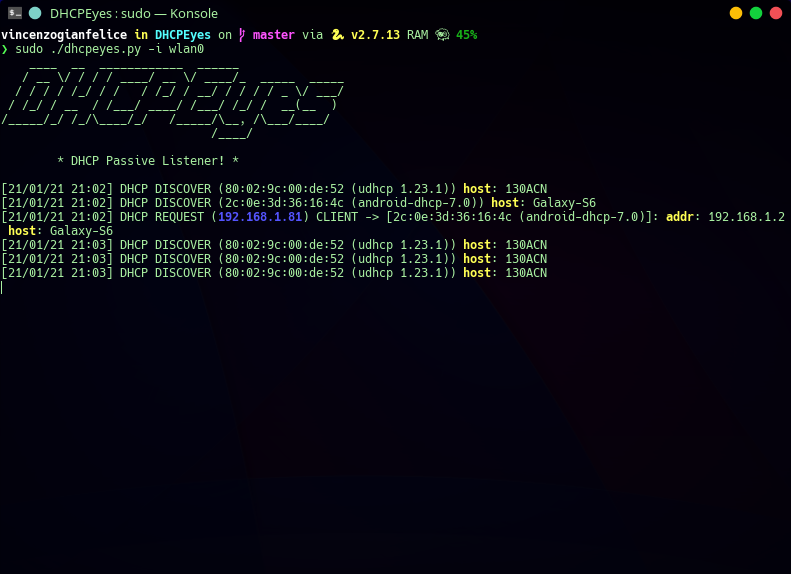
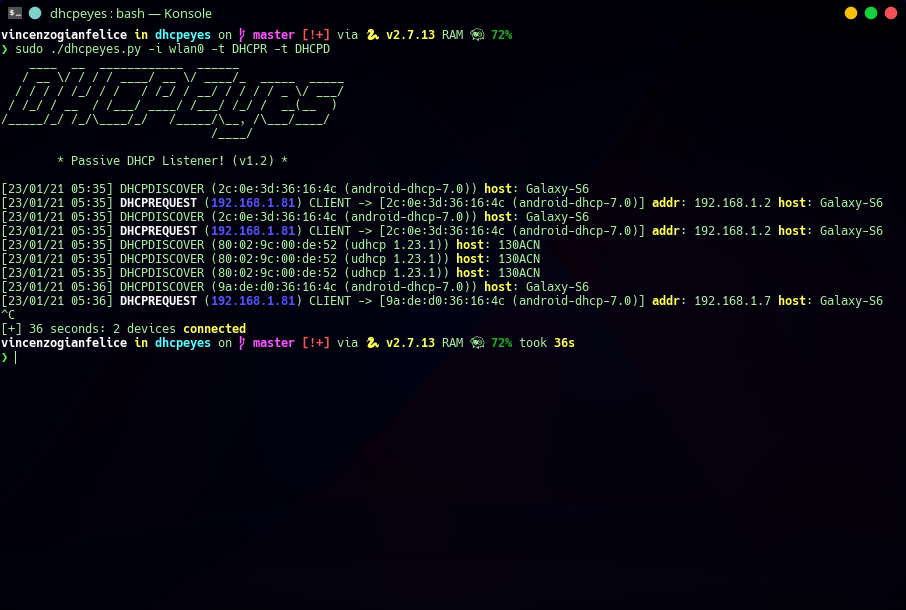
Updating to v1.2 and adding two types DHCP filtering: INFORM and NAK!

Changed region(s): [[0.0, 0.0, 1.0, 0.5923], [0.9102, 0.0, 1.0, 0.0296]]

diff --git a/dhcpeyes.py b/dhcpeyes.py
@@ -1,160 +1,194 @@
 #!/usr/bin/env python2.7
-#  Coded by vincenzogianfelice <developer.vincenzog@gmail.com> with <3
-VERSION='v1.1'
-
+## Coded by vincenzogianfelice <developer.vincenzog@gmail.com> with <3
 import base64
 import sys
 import time
 import os
 from termcolor import colored
-from scapy.all import Ether,DHCP,sniff
+from scapy.all import Ether,DHCP,IP,sniff
 if (os.name == 'nt'):
-    import colorama
-    colorama.init()
+   import colorama
+   colorama.init()
+
+## Variabili costanti
+VERSION='v1.2'
 
 ## DHCP Message Type - RFC2132/Page-4 (https://tools.ietf.org/html/rfc2132#page-4) ##
-## Per il momento, verranno utilizzati solo DHCPREQUEST e DHCPDISCOVER.
-## Presto verra' aggiunta la possibilita' di intercettare il DHCPOFFER
+## Per il momento, non verranno utilizzate tutti i "tipi", dato che il client, una volta stabilito il server di destinazione DHCP,
+## invia direttamente i pacchetti a quest'ultimo (e non in broadcast), rendendo inefficace l intercettazione
+## in modo passivo.
+## Presto verra' aggiunta la possibilita' di intercettare le richieste/risposte tra il client/server (MITM)
 ## Stay Tuned! ;)
 DHCPDISCOVER=1  #Used
 DHCPOFFER=2     #No
 DHCPREQUEST=3   #Used
 DHCPDECLINE=4   #No
 DHCPACK=5       #No
-DHCPNAK=6       #No
+DHCPNAK=6       #Used
 DHCPRELEASE=7   #No
-DHCPINFORM=8    #No
+DHCPINFORM=8    #Used
 
 ## DHCPOptions of Scapy
 ## (https://github.com/secdev/scapy/blob/master/scapy/layers/dhcp.py)
 ## `at line 112`. Actual version of scapy is 2.4.4.
 MESSAGE_DHCP='message-type'
+ERROR_MESSAGE='error_message'
 REQUEST_ADDRESS='requested_addr'
 ADDRESS_SERVER_DHCP='server_id'
 VENDOR='vendor_class_id'
 HOSTNAME='hostname'
 
-def logo():
[1 lines of base64/hex data omitted]
+## Variabili globali per lo script
+REQUESTED=list()
 
-    print(base64.b64decode(LOGO).decode('ascii'))
-    print('\t* Passive DHCP Listener! ('+VERSION+') *')
-    print('')
+def logo():
[1 lines of base64/hex data omitted]
+
+   print(base64.b64decode(LOGO).decode('ascii'))
+   print('\t* Passive DHCP Listener! ('+VERSION+') *')
+   print('')
 
 def help():
-    print('Usage: {} -i <interface>'.format(sys.argv[0]))
-    print('')
-    print('Optional:')
-    print('     -o <arg>  File Output Save')
-    print('     -t <arg>  REQUEST types: DHCPR (request),  DHCPD (discover)')
+   print('Usage: {} -i <interface>'.format(sys.argv[0]))
+   print('')
+   print('     -i        Interface for listening')
+   print('Optional:')
+   print('     -o <arg>  File Output Save')
+   print('     -t <arg>  Options types: DHCPD  (discover)')
+   print('                              DHCPR  (request)')
+   print('                              DHCPN  (nak)')
+   print('                              DHCPI  (inform)')
+   print('               Default print all options')
 
-    if (os.name == 'nt'):
-        print('')
-        print('')
-        print('(PS). In Windows, digit "netsh interface show interface" for show the names of interfaces')
+   if (os.name == 'nt'):
+      print('')
+      print('')
+      print('(PS). In Windows, digit "netsh interface show interface" for show the names of interfaces')
 
 def dhcp_options_search(pkts):
-    data=[pkts.getlayer(DHCP).options[0][1]]
-    for ex in pkts.getlayer(DHCP).options:
-        if REQUEST_ADDRESS in ex:
-            data.append((REQUEST_ADDRESS, ex[1]))
-        elif ADDRESS_SERVER_DHCP in ex:
-            data.append((ADDRESS_SERVER_DHCP, ex[1]))
-        elif VENDOR in ex:
-            data.append((VENDOR, ex[1]))
-        elif HOSTNAME in ex:
-            data.append((HOSTNAME, ex[1]))
-
-    return data
+   data=[pkts.getlayer(DHCP).options[0][1]]
+   for ex in pkts.getlayer(DHCP).options:
+      if REQUEST_ADDRESS in ex:
+         data.append((REQUEST_ADDRESS, ex[1]))
+      elif ADDRESS_SERVER_DHCP in ex:
+         data.append((ADDRESS_SERVER_DHCP, ex[1]))
+      elif VENDOR in ex:
+         data.append((VENDOR, ex[1]))
+      elif HOSTNAME in ex:
+         data.append((HOSTNAME, ex[1]))
+      elif ERROR_MESSAGE in ex:
+         data.append((ERROR_MESSAGE, ex[1]))
+   return data
 
 def parser_packet(pkts):
-    mac_addr=pkts.getlayer(Ether).src
-    address='???'
-    vendor='???'
-    address_server_dhcp='???'
-    hostname='???'
+   if (not pkts):
+      return
 
-    data=dhcp_options_search(pkts)
+   mac_addr=pkts.getlayer(Ether).src
+   ip_src=pkts.getlayer(IP).src
+   ip_dst=pkts.getlayer(IP).dst
+   address='???'
+   vendor='???'
+   address_server_dhcp='???'
+   hostname='???'
+   error_msg=None
 
-    type_option=data[0]
-    del data[0]
+   data=dhcp_options_search(pkts)
+   if (not data):
+      return
 
-    ## Check in base al valore dell'opzione '-t' e dal tipo di pacchetto
-    ## in entrata
-    if type_option == DHCPDISCOVER and (type_dhcp == 'DHCPD' or not type_dhcp):
-        option_dhcp='DHCPDISCOVER'
-    elif type_option == DHCPREQUEST and (type_dhcp == 'DHCPR' or not type_dhcp):
-        option_dhcp='DHCPREQUEST'
-    else:
-        return
+   type_option=data[0]
+   del data[0]
 
-    time_capture=time.strftime("%d/%m/%y %H:%M")
-    for ex in data:
-        if REQUEST_ADDRESS in ex:
-            address=ex[1]
-        elif ADDRESS_SERVER_DHCP in ex:
-            address_server_dhcp=ex[1]
-        elif VENDOR in ex:
-            vendor=ex[1].decode('utf8')
-        elif HOSTNAME in ex:
-            hostname=ex[1].decode('utf8')
+   time_capture=tuple(time.localtime())
+   ## Check in base al valore dell'opzione '-t' e dal tipo di pacchetto
+   # ## in entrata
+   if type_option == DHCPDISCOVER and ('DHCPD' in type_dhcp or not type_dhcp):
+      option_dhcp='DHCPDISCOVER'
+      format_syntax='[%s] %s (%s (%s)) %s: %s'
+      value_syntax='(time.strftime("%d/%m/%y %H:%M",time_capture), option_dhcp, mac_addr, vendor, colored(\'host\', \'yellow\', attrs=[\'bold\']), hostname)'
+   elif type_option == DHCPREQUEST and ('DHCPR' in type_dhcp or not type_dhcp):
+      REQUESTED.append(mac_addr)
 
-    if (file_out):
-        with open(file_out,'a+') as fd:
-            fd.write('{}: {} server_dhcp={} mac={} vendor={} address={} hostname={}'.format(time_capture, option_dhcp, address_server_dhcp, mac_addr, vendor, address, hostname))
+      option_dhcp=colored('DHCPREQUEST', 'white', attrs=['bold'])
+      format_syntax='[%s] %s (%s) CLIENT -> [%s (%s)] %s: %s %s: %s'
+      value_syntax='(time.strftime("%d/%m/%y %H:%M",time_capture), option_dhcp, colored(address_server_dhcp, \'blue\', attrs=[\'bold\']), mac_addr, vendor, colored(\'addr\', \'yellow\', attrs=[\'bold\']), address, colored(\'host\', \'yellow\', attrs=[\'bold\']), hostname)'
+   elif type_option == DHCPNAK and ('DHCPN' in type_dhcp or not type_dhcp):
+      option_dhcp='DHCPNAK'
+      format_syntax='[%s] %s (%s from %s) (%s) via %s'
+      value_syntax='(time.strftime("%d/%m/%y %H:%M",time_capture), colored(option_dhcp, \'red\', attrs=[\'bold\']), mac_addr, colored(ip_src, \'blue\', attrs=[\'bold\']), error_msg, ip_dst)'
+   elif type_option == DHCPINFORM and ('DHCPI' in type_dhcp or not type_dhcp):
+      option_dhcp='DHCPINFORM'
+      format_syntax='[%s] %s [%s (%s)] %s: %s %s: %s'
+      value_syntax='(time.strftime("%d/%m/%y %H:%M",time_capture), option_dhcp, mac_addr, vendor, colored(\'addr\', \'yellow\', attrs=[\'bold\']), ip_src, colored(\'host\', \'yellow\', attrs=[\'bold\']), hostname)'
+   else:
+      return
+
+   for ex in data:
+      if REQUEST_ADDRESS in ex:
+         address=ex[1]
+      elif ADDRESS_SERVER_DHCP in ex:
+         address_server_dhcp=ex[1]
+      elif VENDOR in ex:
+         vendor=ex[1].decode('utf8')
+      elif HOSTNAME in ex:
+         hostname=ex[1].decode('utf8')
+      elif ERROR_MESSAGE in ex:
+         error_msg=ex[1].decode('utf8')
+
+      if (file_out):
+         with open(file_out,'a+') as fd:
+            fd.write('{}: {} server_dhcp={} mac={} vendor={} address={} hostname={} errorr_msg={}'.format(time.strftime("%d-%m-%y-%H-%M",time_capture), option_dhcp, address_server_dhcp, mac_addr, vendor, address, hostname, error_msg))
             fd.write('\n')
 
-    if (type_option == DHCPDISCOVER):
-        output_format='[{}] {} ({} ({})) {}: {}'.format(time_capture,
-                                                        option_dhcp,
-                                                        mac_addr,
-                                                        vendor,
-                                                        colored('host', 'yellow', attrs=['bold']),
-                                                        hostname)
-    elif (type_option == DHCPREQUEST):
-        output_format='[{}] {} ({}) CLIENT -> [{} ({})] {}: {} {}: {}'.format(time_capture,
-                                                                              option_dhcp,
-                                                                              colored(address_server_dhcp, 'blue', attrs=['bold']),
-                                                                              mac_addr,
-                                                                              vendor,
-                                                                              colored('addr', 'yellow', attrs=['bold']),
-                                                                              address,
-                                                                              colored('host', 'yellow', attrs=['bold']),
-                                                                              hostname)
-
-    print(output_format)
+   print((format_syntax) % eval(value_syntax))
 
 if __name__ == '__main__':
-    interface=None
-    type_dhcp=None
-    file_out=None
+   interface=None
+   type_dhcp=list()
+   file_out=None
 
-    logo()
+   logo()
 
-    op=sys.argv[1::2]
-    val=sys.argv[2::2]
-    if (len(sys.argv) < 2 or len(op) != len(val)):
-        help()
-        sys.exit(1)
+   op=sys.argv[1::2]
+   val=sys.argv[2::2]
+   if (len(sys.argv) < 2 or len(op) != len(val)):
+      help()
+      sys.exit(1)
 
-    for o in op:
-        index_op=op.index(o)
-        if ( o == '-o' ):
-            file_out=val[index_op]
-        elif ( o == '-t' ):
-            type_dhcp=val[index_op]
-            if type_dhcp != 'DHCPR' and type_dhcp != 'DHCPD':
-                help()
-                sys.exit(1)
-        elif ( o == '-i'):
-            interface=val[index_op]
-
-    ## Check root permissions
-    if (os.name == 'posix'):
-        if (os.getuid() != 0):
-            print('Please run as root')
+   ## Semplice parsing delle opzioni da input
+   i=0
+   for o in op:
+      if ( o == '-o' ):
+         file_out=val[index_op]
+      elif ( o == '-t' ):
+         if val[i] != 'DHCPD' and val[i] != 'DHCPR' and val[i] != 'DHCPN' and val[i] != 'DHCPI':
+            help()
             sys.exit(1)
 
-    print('* Eyes on "{}" interface...'.format(interface))
-    print('')
-    sniff(iface=interface, prn=parser_packet, store=False, filter=('udp port 67 and port 68'))
+         type_dhcp.append(val[i])
+      elif ( o == '-i'):
+         interface=val[i]
+      i+=1
+
+   ## Check root permissions
+   if (os.name == 'posix'):
+      if (os.getuid() != 0):
+         print('Please run as root')
+         sys.exit(1)
+
+   start=time.time()
+   sniff(iface=interface, prn=parser_packet, store=False, filter=('udp port 67 and port 68'))
+   end=time.time()-start
+
+   if (end < 60):
+      who_time = '{} seconds'.format(int(end))
+   elif (end >= 60 and end < 3600):
+      who_time = '{} minutes'.format(int(end/60))
+   else:
+      who_time = '{} hours'.format(int(end/3600))
+
+   print('')
+   print('\r[+] {}: {} devices {}'.format(who_time,
+                                          len(set(REQUESTED)),
+                                          colored('connected', 'yellow', attrs=['bold'])))

diff --git a/README.md b/README.md
@@ -6,23 +6,27 @@ src="https://raw.githubusercontent.com/vincenzogianfelice/DHCPEyes/master/media/
 alt="DemoImage"
 />
 
-# Installation
+# Authors
+- **Vincenzo Gianfelice**
+- **Contact**: _developer.vincenzog@gmail.com_
+- **BTC** (**donation**): *3EwV4zt9r5o4aTHyqjcM6CfqSVirSEmN6y*
+
+# Prerequisites
 Require **python2.7** (also **python3.5**)
 
-```
-pip2 install -r requirements.txt
-```
+- scapy >= 2.4.4
+- termcolor
+- colorama (if use on **windows**)
 
 ###### Windows
 - First, install [WinPcap](https://www.winpcap.org/install/)
 - After installed winpcap, run file exe after [downloaded](https://github.com/vincenzogianfelice/DHCPEyes/releases)
-- For searching interfaces on Windows, digit in prompt:
+- For searching interfaces on Windows, digit in prompt ```netsh interface show interfaces```, and copy the 4 column (```Nome interfaccia```/```Name interface```)
 
+# Installation
 ```
-netsh interface show interface
+pip2 install -r requirements.txt
 ```
-
-and copy the 4 column (```Nome interfaccia```/```Name interface```)
 
 # Usage
 ```
@@ -33,29 +37,27 @@ and copy the 4 column (```Nome interfaccia```/```Name interface```)
 /_____/_/ /_/\____/_/   /_____/\__, /\___/____/
                               /____/
 
-        * Passive DHCP Listener! (v1.1) *
+        * Passive DHCP Listener! (v1.2) *
 
 Usage: ./dhcpeyes.py -i <interface>
 
+     -i        Interface for listening
 Optional:
      -o <arg>  File Output Save
-     -t <arg>  REQUEST types: DHCPR (request),  DHCPD (discover)
+     -t <arg>  Options types: DHCPD  (discover)
+                              DHCPR  (request)
+                              DHCPN  (nak)
+                              DHCPI  (inform)
+               Default print all options
 ```
 
 #### Examples
 ```
-./dhcpeyes.py -i wlan0 -t DHCPR  # Intercept only DHCPREQUEST
-./dhcpeyes.py -i wlan0  # Intercept all
+./dhcpeyes.py -i wlan0 -t DHCPR              # Intercept only DHCPREQUEST on wlan0
+./dhcpeyes.py -t DHCPI -i wlan0 -t DHCPD     # Intercept DHCPINFORM and DHCPDISCOVER
 ```
+
 ###### Windows
 ```
 ./dhcpeyes.py -i "Connessione alla rete locale (LAN)" -t DHCPR  # Using "Connessione alla rete locale (LAN)" provided from output of command netsh
 ```
-
-# Donazioni
-
-**BTC:** *3EwV4zt9r5o4aTHyqjcM6CfqSVirSEmN6y*
-
-# Contatti
-
-**Email:** *developer.vincenzog@gmail.com*
